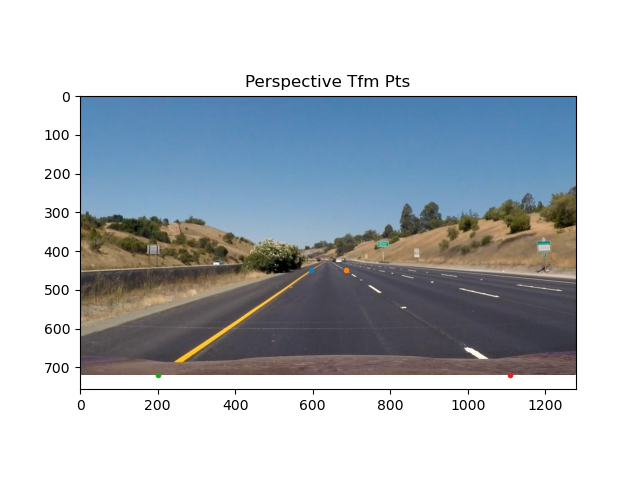
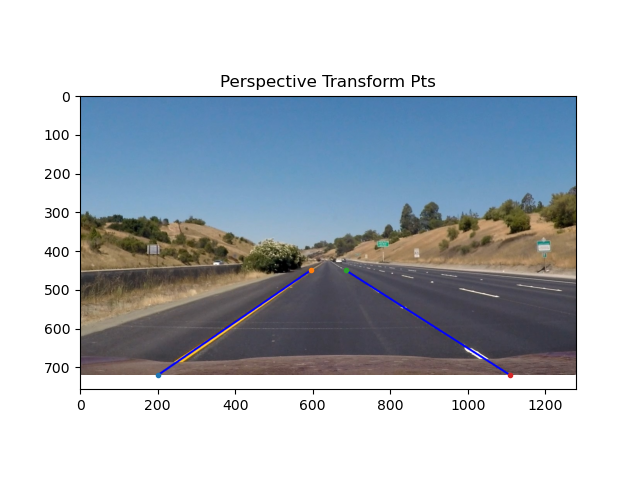
Finish transform.

diff --git a/src/perspective_transform.py b/src/perspective_transform.py
@@ -8,61 +8,100 @@ import cv2
 import numpy as np
 import matplotlib.pyplot as plt
 
-# def transform(img):
-#     """
-#     Perform perspective transform on an image
-    
-#     Args:
-#         img (np.ndarray): image to do the transform on
-    
-#     """
-#     src = None
-#     dst = None
 
-#     M = cv2.getPerspectiveTransform(src, dst)
+def draw_plot_save(img, points, plt_title=None, save_path=None):
+    """
+    Draw lines on an image from point a to point b
 
-#     size = (img.shape[1], img.shape[0])
-#     transformed_img = cv2.warpPerspective(img, M, size)
+    Args:
+        img (np.ndarray): BGR image to draw points and lines on
+        points (np.ndarry): 4x2 array containing points in following order:
+            bottom_left, top_left, top_right, bottom_right
+        plt_title (str): title of the plot
+        save_path (str): where to save the plot as png file
+    """
+    # draw
+    line_color = (255, 0, 0)
+    img = cv2.line(img, tuple(points[0]), tuple(points[1]), line_color, 3)
+    img = cv2.line(img, tuple(points[2]), tuple(points[3]), line_color, 3)
 
-#     return transformed_img, M
+    # plot
+    plt.imshow(cv2.cvtColor(img, cv2.COLOR_BGR2RGB))
+    plt.plot(points[0][0], points[0][1], '.')
+    plt.plot(points[1][0], points[1][1], '.')
+    plt.plot(points[2][0], points[2][1], '.')
+    plt.plot(points[3][0], points[3][1], '.')
+    if plt_title:
+        plt.title(plt_title)
+    if save_path:
+        plt.savefig(save_path)
+    plt.show()
 
-
-# eyeballing it
 # use straight lines template to perform perspective transform and get M
 img = cv2.imread('../test_images/straight_lines1.jpg')
-plt.imshow(cv2.cvtColor(img, cv2.COLOR_BGR2RGB))
-plt.plot(595, 450, '.')
-plt.plot(685, 450, '.')
-plt.plot(200, img.shape[0], '.')
-plt.plot(1110, img.shape[0], '.')
-plt.title('Perspective Tfm Pts')
-plt.savefig('../output_images/transform_pts.png')
-plt.show()
+draw_img = np.copy(img)
+
+# eyeballing 4 corners of the lane
+bottom_left = (200, img.shape[0])
+top_left = (595, 450)
+top_right = (685, 450)
+bottom_right = (1110, img.shape[0])
 
 # source points in original image
 src = np.float32(
-    [[595, 450],
-    [685, 450],
-    [1110, img.shape[0]],
-    [200, img.shape[0]]]
+    [bottom_left,
+    top_left,
+    top_right,
+    bottom_right]
 )
 
-# dest points in warped image, ensure they're in same order
+draw_plot_save(
+    img=draw_img, 
+    points=src, 
+    plt_title='Perspective Transform Pts', 
+    save_path='../output_images/transform_pts.png'
+)
+
+
+# destination pts
+dst_bottom_left = (350, img.shape[0])
+dst_top_left = (350, 0)
+dst_top_right = (950, 0)
+dst_bottom_right = (950, img.shape[0])
+
+# dest points in warped image, in same order as original
 dst = np.float32(
-    [[350, 0],
-    [950, 0],
-    [950, img.shape[0]],
-    [350, img.shape[0]]]
+    [dst_bottom_left,
+    dst_top_left,
+    dst_top_right,
+    dst_bottom_right]
 )
 
+# get transformation matrix and perform transform
 M = cv2.getPerspectiveTransform(src, dst)
 size = (img.shape[1], img.shape[0])
 transformed_img = cv2.warpPerspective(img, M, size)
+
+draw_plot_save(
+    img=transformed_img, 
+    points=dst, 
+    plt_title='Transformed Image', 
+    save_path='../output_images/transform_img.png'
+)
+
+# draw lines on transformed image
+line_color = (255, 0, 0)
+lines_img = cv2.line(transformed_img, dst_bottom_left, dst_top_left, line_color, 3)
+lines_img = cv2.line(transformed_img, dst_bottom_right, dst_top_right, line_color, 3)
+
 plt.imshow(cv2.cvtColor(transformed_img, cv2.COLOR_BGR2RGB))
-plt.plot(350, 0, '.')
-plt.plot(950, 0, '.')
-plt.plot(950, img.shape[0], '.')
-plt.plot(350, img.shape[0], '.')
+plt.plot(dst_bottom_left[0], dst_bottom_left[1], '.')
+plt.plot(dst_top_left[0], dst_top_left[1], '.')
+plt.plot(dst_top_right[0], dst_top_right[1], '.')
+plt.plot(dst_bottom_right[0], dst_bottom_right[1], '.')
 plt.title('Transformed Image')
 plt.savefig('../output_images/transform_img.png')
 plt.show()
+
+def get_transform_matrix():
+    return src, dst, M

diff --git a/src/main.py b/src/main.py
@@ -7,6 +7,7 @@ import matplotlib.pyplot as plt
 
 from calibrate import calibrate, undistort
 import threshold as th
+import perspective_transform as pt
 
 # calibrate the camera using the given chessboard images
 ret, mtx, dist, rvecs, tvecs = calibrate(
@@ -24,7 +25,7 @@ plt.title('Undistorted')
 plt.show()
 
 # convert to gray
-gray = cv2.cvtColor(rgb_img, cv2.COLOR_RGB2GRAY)  # RGB => GRAY
+gray = cv2.cvtColor(undist, cv2.COLOR_RGB2GRAY)  # RGB => GRAY
 
 # apply gradient and color thresholding
 gradx = th.abs_sobel_thresh(gray)
@@ -42,3 +43,26 @@ plt.show()
 
 # perspective transform: easier to measure curvature of lane from bird's eye view
 # also makes it easier to match car's location with a road map
+src, dst, M = pt.get_transform_matrix()
+
+# transform image
+size = (final_output.shape[1], final_output.shape[0])
+transformed_img = cv2.warpPerspective(final_output, M, size)
+
+# draw lines on original
+gray_final_output = np.uint8(final_output*255)  # binary to gray
+bgr_final_output = cv2.cvtColor(gray_final_output, cv2.COLOR_GRAY2BGR)
+pt.draw_plot_save(
+    bgr_final_output, 
+    src,
+    'Original Binary',
+    '../output_images/original_binary.png'
+)
+
+# draw lines on transformed
+gray_transformed_img = np.uint8(transformed_img*255)
+bgr_transformed_img = cv2.cvtColor(gray_transformed_img, cv2.COLOR_GRAY2BGR)
+pt.draw_plot_save(bgr_transformed_img, dst, 'Test Transformation', '../output_images/test_transform.png')
+
+
+

diff --git a/README.md b/README.md
@@ -1,6 +1,6 @@
 # Advanced Lane Finding using Computer Vision
 
-This is a software pipeline that identifies lane lines in a video stream. See `src/main.py` for the main script that contains the pieline.
+This is a detailed description of a software pipeline that identifies lane lines in a video stream. See `src/main.py` for the main script that contains the pieline.
 
 ## Camera Calibration
 First, I performed [camera calibration](https://docs.opencv.org/4.4.0/dc/dbb/tutorial_py_calibration.html) using chessboard images stored in `camera_cal/`:
@@ -26,8 +26,17 @@ Here, the lane lines show up clearly. See `src/threshold.py` for the code.
 ## Perspective Transform (Bird's-eye view)
 The next thing to do is to measure curvature. This is best done by looking at the lanes from a top-down view. Using a template image w/ relatively straight lane lines (`test_images/straight_lines1.png`), I performed a perspective transform using 4 manually derived source points from the image and mapping them to a warped, transformed image.
 
-Here is the original image with the points drawn: 
+Here is the original image with the points (and lines) drawn: 
 ![Transform Points](./output_images/transform_pts.png)
 
-and here is the transformation: 
+and here is the transformed image w/ the associated points: 
 ![Transformed Image](./output_images/transform_img.png)
+
+Here is what the transform looks like on an undistorted and thresholded image of a _curved_ road: 
+
+![Original Binary](./output_images/original_binary.png)
+
+
+![Test Transform](./output_images/test_transform.png)
+
+Here, one can see the clear right curvature of the road. Fortunately, despite the curvature, the lanes are still parallel, indicating the transform was done correctly. See `src/perspective_transform.py` for the code.
